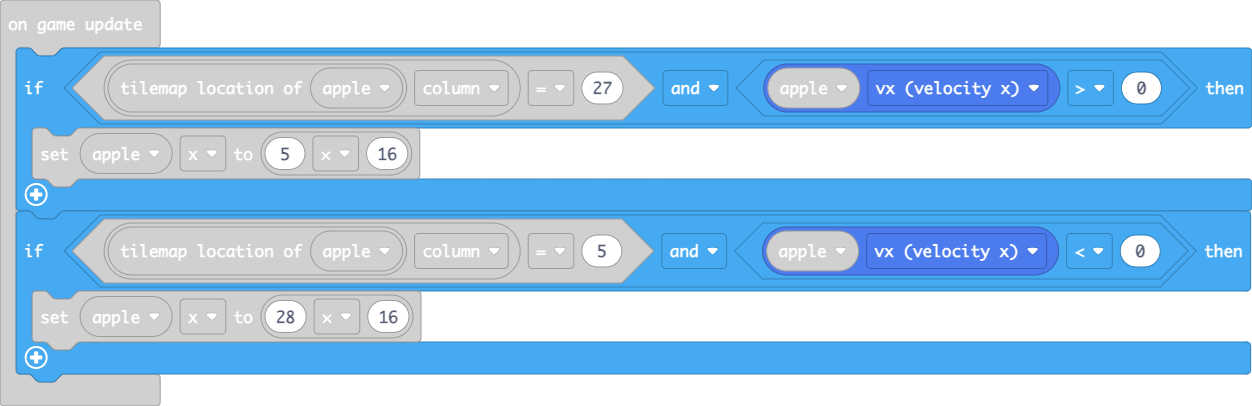
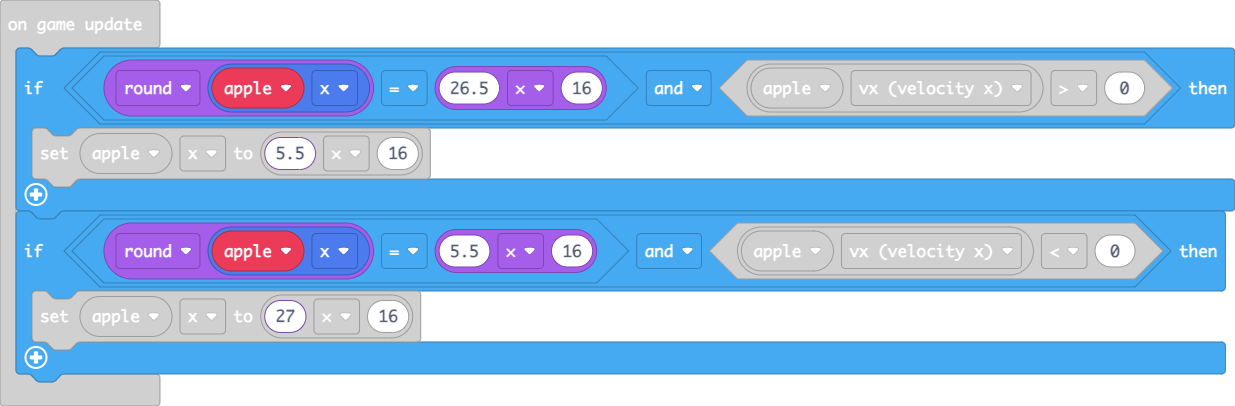
still working on wiapping

diff --git a/main.ts b/main.ts
@@ -136,10 +136,10 @@ game.onUpdate(function () {
     }
 })
 game.onUpdate(function () {
-    if (apple.tilemapLocation().column == 27 && apple.vx > 0) {
-        apple.x = 5 * 16
+    if (Math.round(apple.x) == 26.5 * 16 && apple.vx > 0) {
+        apple.x = 5.5 * 16
     }
-    if (apple.tilemapLocation().column == 5 && apple.vx < 0) {
-        apple.x = 28 * 16
+    if (Math.round(apple.x) == 5.5 * 16 && apple.vx < 0) {
+        apple.x = 27 * 16
     }
 })
